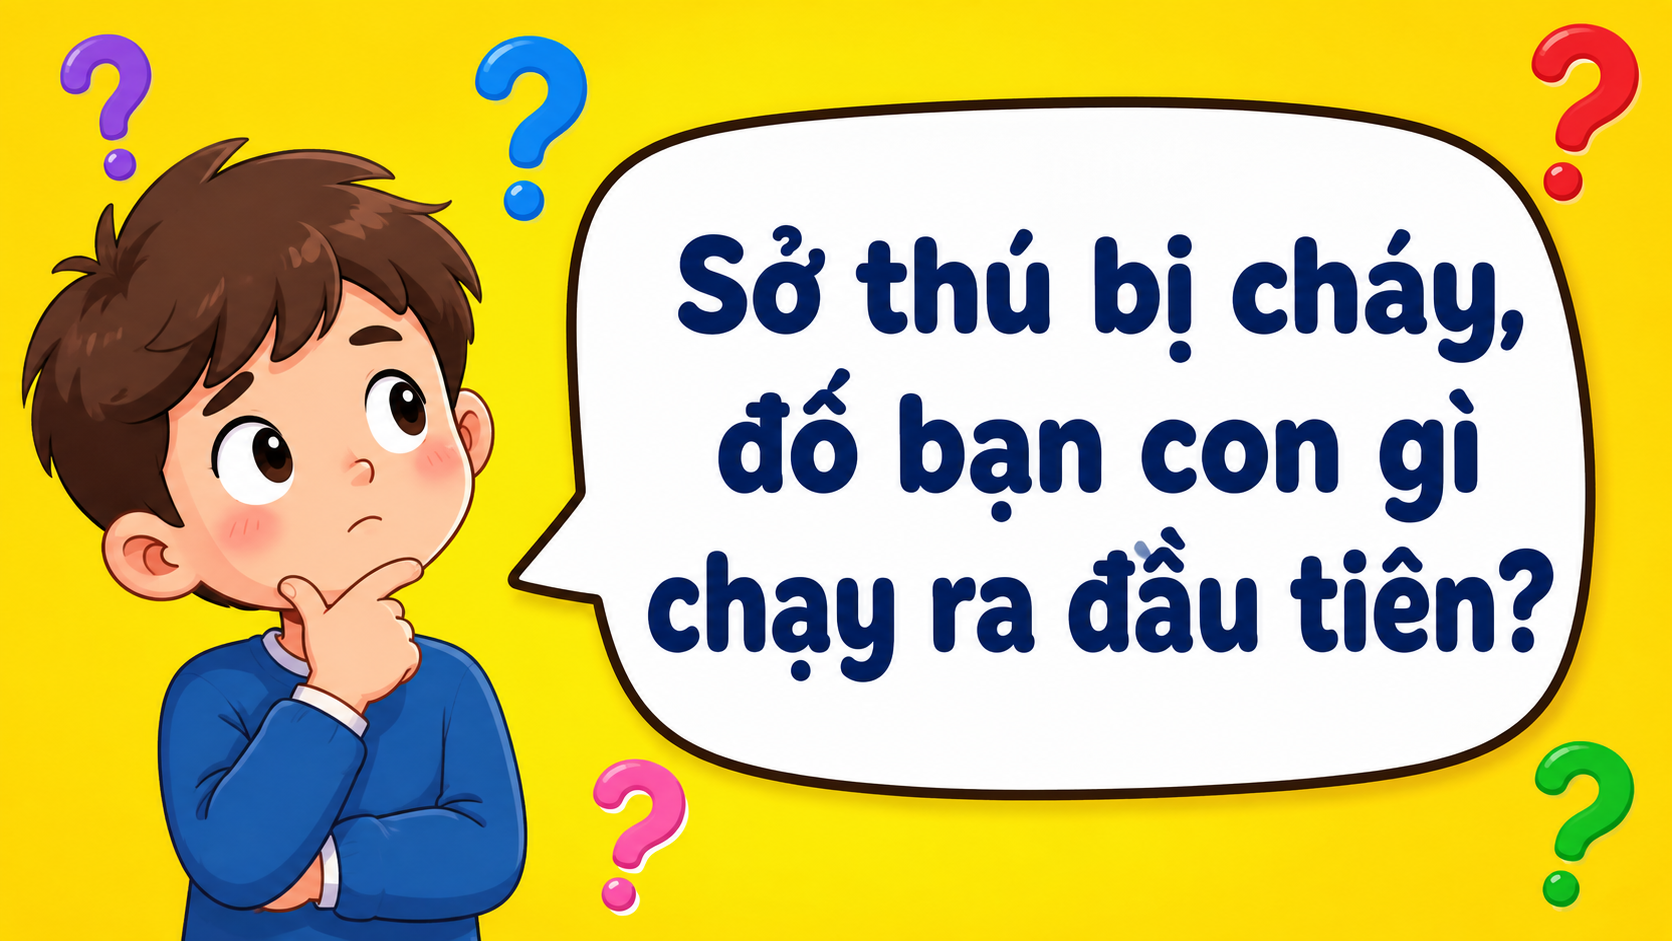
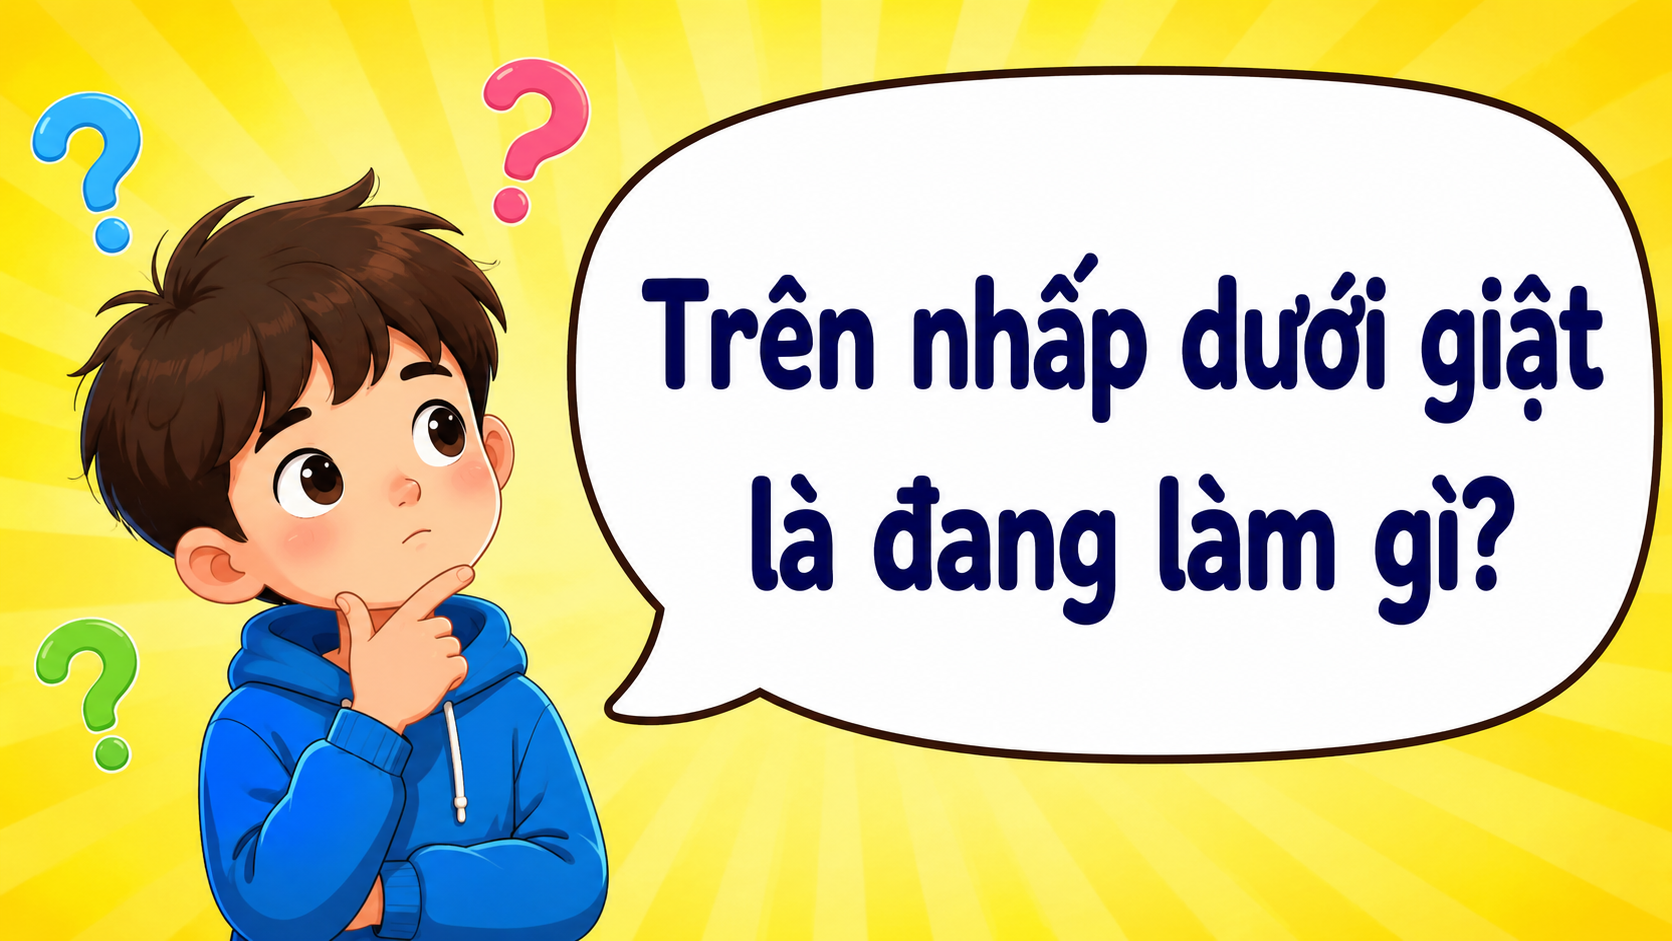
Update question text and hint threshold

diff --git a/src/App.jsx b/src/App.jsx
@@ -10,6 +10,7 @@ const QUESTION_TYPE_MULTIPLE = 'multiple'
 const MULTIPLE_CHOICE_COUNT = 4
 const STANDARD_HINT_COUNT = 3
 const SPECIAL_HINT_INDEX = 3
+const DEFAULT_HINT_THRESHOLD = 3
 const GAME_STORAGE_KEY = 'trip-hoi-an-2026-game-state-v1'
 const choiceLetters = ['A', 'B', 'C', 'D']
 const questionTypeLabels = {
@@ -20,6 +21,10 @@ const DEFAULT_OVERALL_QUESTION = 'Center 3 đã bước sang năm thứ 2. Trong
 const ULTIMATE_ANSWER = 'Trâu chậm uống nước đục'
 const DEFAULT_HINT_TEXTS = ['Một câu tục ngữ gồm 5 chữ', 'Câu tục ngữ nói về tốc độ quyết định cơ hội', 'Mở đầu bằng con giáp đứng thứ hai trong 12 con giáp.', 'T_ _ _  C_ậ_  U_ _g  N_ _c  Đ_c']
 const LEGACY_SPECIAL_HINT_TEXTS = ['Gợi ý đặc biệt', 'T_ _ _ c_ _m  u_ _g   n_ _c _ _c', 'T_ _ _  C_ậ_  *U* _ _ *g  N* _ _ c   Đ _ c']
+const UPDATED_FISHING_QUESTION = 'Trên nhấp dưới giật là đang làm gì?'
+const UPDATED_DEPUTY_QUESTION = 'Trưởng BVH C3 hiện tại là Tùng Quân. Vậy phó BVH C3 hiện tại là ai?'
+const UPDATED_SLEEPY_LEAF_QUESTION = 'Lá gì luôn ngủ rất say'
+const UPDATED_CANDY_QUESTION = 'Như bạn biết, 5 chia cho 5 thì bằng 1. Nếu bạn Tí có 5 cục kẹo chia đều cho 5 người bạn của mình, thì bạn Tí còn mấy cục kẹo?'
 
 const cleanText = (value) => String(value ?? '').trim()
 const isExternalAssetUrl = (value) => /^(?:[a-z][a-z\d+\-.]*:|\/\/)/i.test(cleanText(value))
@@ -146,16 +151,16 @@ const csvCell = (value) => {
 
 const defaultQuestions = [
   ['Hóa học dạy ta điều gì về tình yêu?', 'Không phải chất nào trộn vào cũng hợp.', 'cau-15'],
-  ['Sở thú bị cháy, đố bạn con gì chạy ra đầu tiên?', 'Con người.', 'cau-1'],
+  [UPDATED_FISHING_QUESTION, 'Câu cá', 'cau-1'],
   ['Với con người, thời điểm tốt nhất để đi ngủ là khi nào?', 'Khi buồn ngủ.', 'cau-2'],
   ['Khi nhắc đến cối xay gió, người ta thường nghĩ đến đất nước nào?', 'Hà Lan.', 'cau-3'],
   ['Tổng số tuổi của HEAD + 4 SDM nhà mình là bao nhiêu?', '187 tuổi.', 'cau-4'],
-  ['Trưởng BVH C3 hiện tại là Tùng Quân. Vậy phó trưởng BVH C3 hiện tại là ai?', 'Không có ai cả.', 'cau-5'],
+  [UPDATED_DEPUTY_QUESTION, 'Không có', 'cau-5'],
   ['Giao gì khiến chúng ta lo lắng?', 'Giao trứng cho ác.', 'cau-6'],
-  ['Lá gì luôn ngửi rất say?', 'Lá mơ.', 'cau-7'],
+  [UPDATED_SLEEPY_LEAF_QUESTION, 'Lá mơ', 'cau-7'],
   ['Điểm gì ăn được?', 'Điểm tâm.', 'cau-8'],
   ['Cái gì đánh cha, đánh má, đánh anh, đánh chị, đánh em?', 'Bàn chải đánh răng.', 'cau-11'],
-  ['Nếu bạn Tí có 5 cục kẹo chia đều cho 5 người bạn của mình, thì bạn Tí còn mấy cục kẹo?', 'Không còn cục nào.', 'cau-9'],
+  [UPDATED_CANDY_QUESTION, 'Không còn cục nào', 'cau-9'],
   ['Làm gì mà không phát ra tiếng?', 'Làm thinh.', 'cau-10'],
 ]
 
@@ -187,16 +192,16 @@ const createEmptyQuestion = (index, questionType = QUESTION_TYPE_SINGLE) => crea
 
 const defaultSideQuestions = [
   { question: 'Hóa học dạy ta điều gì về tình yêu?', answer: 'Không phải chất nào trộn vào cũng hợp.' },
-  { question: 'Sở thú bị cháy, đố bạn con gì chạy ra đầu tiên?', answer: 'Con người.' },
+  { question: UPDATED_FISHING_QUESTION, answer: 'Câu cá' },
   { question: 'Với con người, thời điểm tốt nhất để đi ngủ là khi nào?', answer: 'Khi buồn ngủ.' },
   { question: 'Khi nhắc đến cối xay gió, người ta thường nghĩ đến đất nước nào?', answer: 'Hà Lan.' },
   { question: 'Tổng số tuổi của HEAD + 4 SDM nhà mình là bao nhiêu?', answer: '187 tuổi.' },
-  { question: 'Trưởng BVH C3 hiện tại là Tùng Quân. Vậy phó trưởng BVH C3 hiện tại là ai?', answer: 'Không có ai cả.' },
+  { question: UPDATED_DEPUTY_QUESTION, answer: 'Không có' },
   { question: 'Giao gì khiến chúng ta lo lắng?', answer: 'Giao trứng cho ác.' },
-  { question: 'Lá gì luôn ngửi rất say?', answer: 'Lá mơ.' },
+  { question: UPDATED_SLEEPY_LEAF_QUESTION, answer: 'Lá mơ' },
   { question: 'Điểm gì ăn được?', answer: 'Điểm tâm.' },
   { question: 'Cái gì đánh cha, đánh má, đánh anh, đánh chị, đánh em?', answer: 'Bàn chải đánh răng.' },
-  { question: 'Nếu bạn Tí có 5 cục kẹo chia đều cho 5 người bạn của mình, thì bạn Tí còn mấy cục kẹo?', answer: 'Không còn cục nào.' },
+  { question: UPDATED_CANDY_QUESTION, answer: 'Không còn cục nào' },
   { question: 'Làm gì mà không phát ra tiếng?', answer: 'Làm thinh.' },
 ]
 
@@ -238,8 +243,24 @@ const normalizeSavedQuestionData = (value) => {
       saved.question = fallback.question
       saved.label = fallback.label
     }
-    if (index === 5 && saved.question === 'Trưởng phòng C3 hiện tại là Tùng. Vậy phó trưởng BVH C3 hiện tại là ai?') {
+    if (index === 1 && saved.question === 'Sở thú bị cháy, đố bạn con gì chạy ra đầu tiên?') {
       saved.question = fallback.question
+      saved.label = fallback.label
+    }
+    if (index === 5 && [
+      'Trưởng phòng C3 hiện tại là Tùng. Vậy phó trưởng BVH C3 hiện tại là ai?',
+      'Trưởng BVH C3 hiện tại là Tùng Quân. Vậy phó trưởng BVH C3 hiện tại là ai?',
+    ].includes(saved.question)) {
+      saved.question = fallback.question
+      saved.label = fallback.label
+    }
+    if (index === 7 && saved.question === 'Lá gì luôn ngửi rất say?') {
+      saved.question = fallback.question
+      saved.label = fallback.label
+    }
+    if (index === 10 && saved.question === 'Nếu bạn Tí có 5 cục kẹo chia đều cho 5 người bạn của mình, thì bạn Tí còn mấy cục kẹo?') {
+      saved.question = fallback.question
+      saved.label = fallback.label
     }
     const savedImageValue = Object.hasOwn(saved, 'imageUrl')
       ? saved.imageUrl
@@ -283,8 +304,16 @@ const normalizeSavedSideQuestions = (value) => {
   const normalized = value.map(normalizeSideQuestion).filter((item) => item.question && item.answer)
   const oldQuestionIndex = normalized.findIndex((item) => item.question === 'Thứ gì càng gần deadline càng chạy nhanh?')
   if (oldQuestionIndex >= 0) normalized[oldQuestionIndex] = defaultSideQuestions[9]
+  const zooQuestionIndex = normalized.findIndex((item) => item.question === 'Sở thú bị cháy, đố bạn con gì chạy ra đầu tiên?')
+  if (zooQuestionIndex >= 0) normalized[zooQuestionIndex] = defaultSideQuestions[1]
   const oldDeputyQuestionIndex = normalized.findIndex((item) => item.question === 'Trưởng phòng C3 hiện tại là Tùng. Vậy phó trưởng BVH C3 hiện tại là ai?')
   if (oldDeputyQuestionIndex >= 0) normalized[oldDeputyQuestionIndex] = defaultSideQuestions[5]
+  const recentDeputyQuestionIndex = normalized.findIndex((item) => item.question === 'Trưởng BVH C3 hiện tại là Tùng Quân. Vậy phó trưởng BVH C3 hiện tại là ai?')
+  if (recentDeputyQuestionIndex >= 0) normalized[recentDeputyQuestionIndex] = defaultSideQuestions[5]
+  const sleepyLeafQuestionIndex = normalized.findIndex((item) => item.question === 'Lá gì luôn ngửi rất say?')
+  if (sleepyLeafQuestionIndex >= 0) normalized[sleepyLeafQuestionIndex] = defaultSideQuestions[7]
+  const shortCandyQuestionIndex = normalized.findIndex((item) => item.question === 'Nếu bạn Tí có 5 cục kẹo chia đều cho 5 người bạn của mình, thì bạn Tí còn mấy cục kẹo?')
+  if (shortCandyQuestionIndex >= 0) normalized[shortCandyQuestionIndex] = defaultSideQuestions[10]
   return normalized.length ? normalized : defaultSideQuestions
 }
 
@@ -295,6 +324,10 @@ const normalizeSavedGameState = (value) => {
     ? DEFAULT_HINT_TEXTS.map((fallback, index) => cleanText(value.hintTexts[index]) || fallback)
     : DEFAULT_HINT_TEXTS
   if (LEGACY_SPECIAL_HINT_TEXTS.includes(hintTexts[SPECIAL_HINT_INDEX])) hintTexts[SPECIAL_HINT_INDEX] = DEFAULT_HINT_TEXTS[SPECIAL_HINT_INDEX]
+  const savedHintThreshold = Math.max(1, Number(value.hintThreshold) || DEFAULT_HINT_THRESHOLD)
+  const hintThreshold = value.hintThresholdDefaultMigrated === true
+    ? savedHintThreshold
+    : savedHintThreshold === 2 ? DEFAULT_HINT_THRESHOLD : savedHintThreshold
 
   return {
     questionData,
@@ -313,7 +346,8 @@ const normalizeSavedGameState = (value) => {
     countdownPaused: value.countdownPaused === true,
     countdownDuration: Math.max(1, Number(value.countdownDuration) || 20),
     countdown: Number.isFinite(Number(value.countdown)) ? Math.max(0, Number(value.countdown)) : null,
-    hintThreshold: Math.max(1, Number(value.hintThreshold) || 2),
+    hintThreshold,
+    hintThresholdDefaultMigrated: true,
     winningScoreEnabled: value.winningScoreEnabled === true,
     winningScore: Math.max(1, Number(value.winningScore) || 6),
     selected: null,
@@ -364,7 +398,7 @@ function App() {
   const [countdownPaused, setCountdownPaused] = useState(() => savedGameState?.countdownPaused || false)
   const [countdownDuration, setCountdownDuration] = useState(() => savedGameState?.countdownDuration || 20)
   const [countdown, setCountdown] = useState(() => savedGameState?.countdown ?? null)
-  const [hintThreshold, setHintThreshold] = useState(() => savedGameState?.hintThreshold || 2)
+  const [hintThreshold, setHintThreshold] = useState(() => savedGameState?.hintThreshold || DEFAULT_HINT_THRESHOLD)
   const [winningScoreEnabled, setWinningScoreEnabled] = useState(() => savedGameState?.winningScoreEnabled || false)
   const [winningScore, setWinningScore] = useState(() => savedGameState?.winningScore || 6)
   const [importMessage, setImportMessage] = useState('')
@@ -404,6 +438,7 @@ function App() {
       countdownDuration,
       countdown,
       hintThreshold,
+      hintThresholdDefaultMigrated: true,
       winningScoreEnabled,
       winningScore,
       selectedChoiceIndex,
